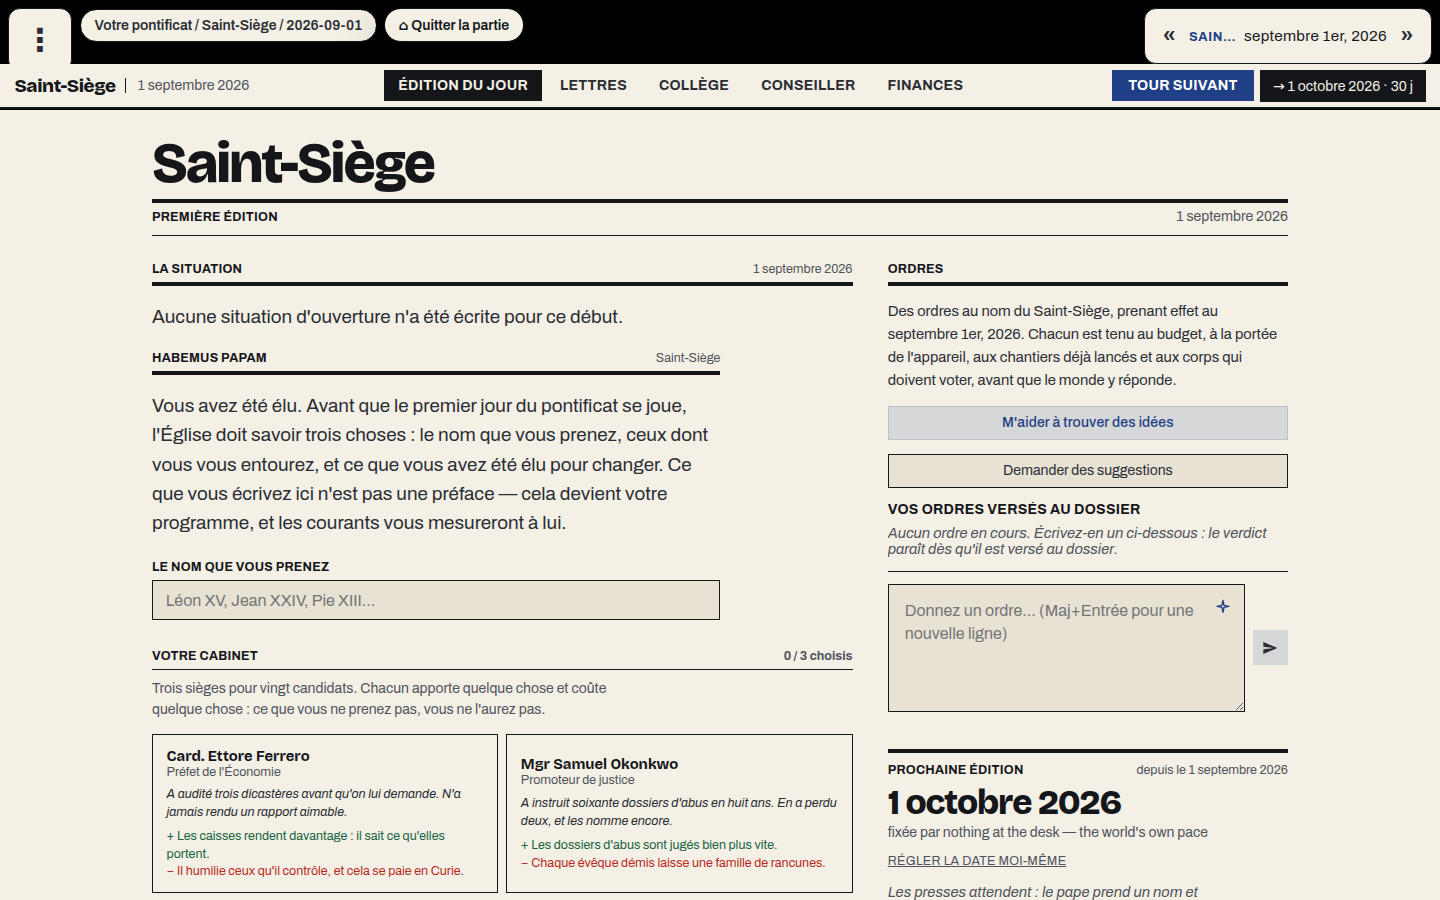
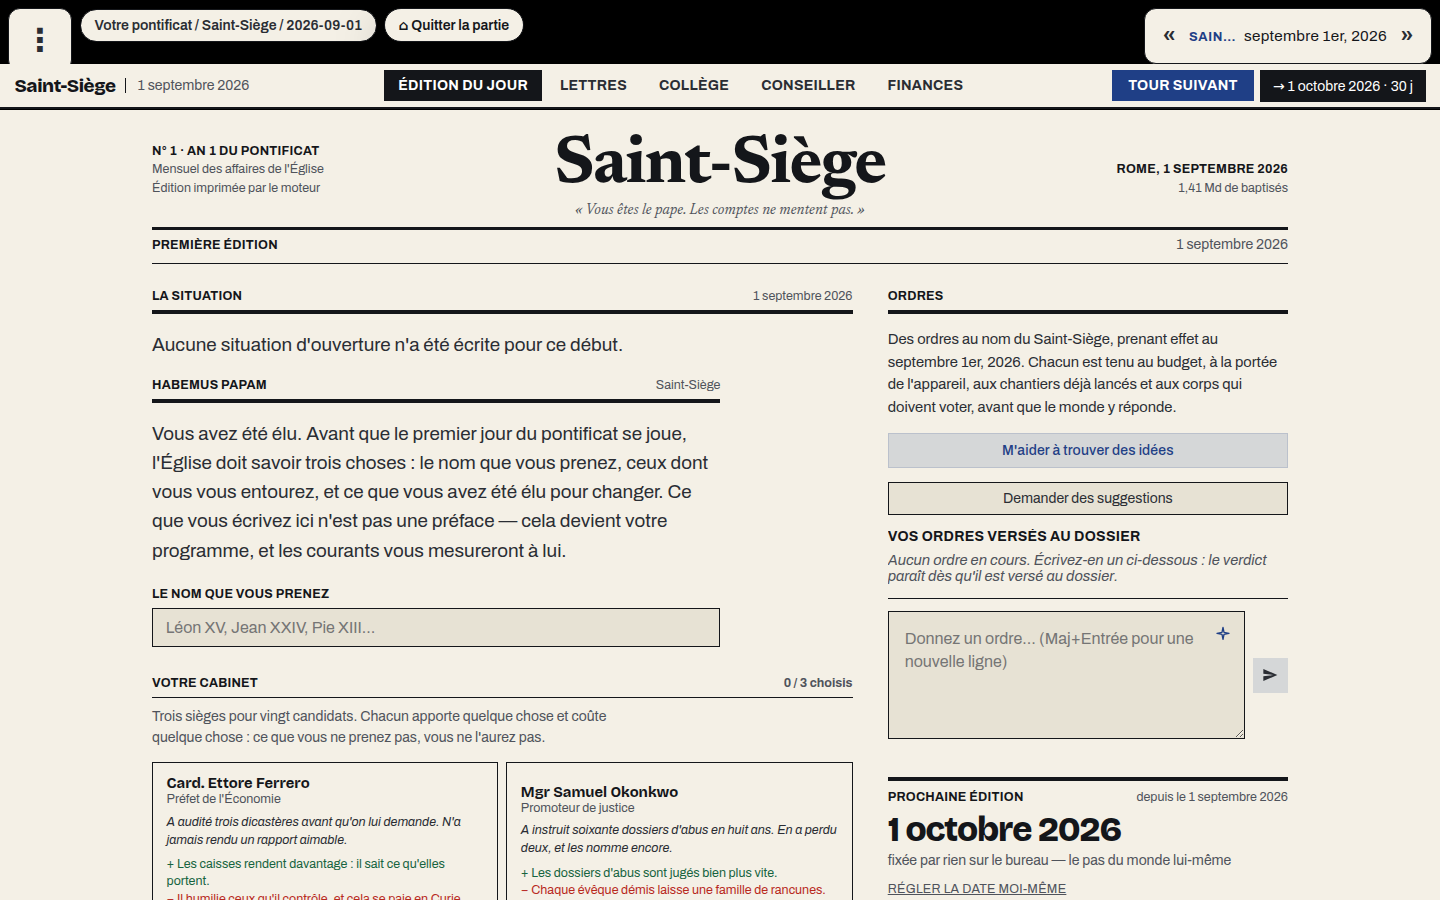
refonte : le bandeau de l'édition, d'après la maquette
Un journal se reconnaît à son bandeau avant qu'on l'ait lu. L'ancien n'avait
qu'un titre, aligné à gauche, en grotesque — celui d'une application, pas d'une
feuille imprimée.

Le bandeau de la maquette tient en trois colonnes : l'état civil du journal à
gauche (le numéro, l'an du pontificat, sa périodicité, qui l'imprime), son nom
au centre en romain et en grand, l'état civil du pontificat à droite (Rome et
la date, le pape et le jour qu'il en est, les baptisés). Dessous, la devise.

Rien de tout cela n'est inventé pour l'affichage : le pape est le chef de la
polity depuis son inauguration, l'an et le jour se comptent depuis la date de
départ de la partie, les baptisés sont le total du registre des fidèles. Un
bandeau qui afficherait des chiffres décoratifs mentirait sur la seule chose
que ce journal promet de ne pas faire.

Claude-Session: https://claude.ai/code/session_011tM9vCZEszuasjUPEwFGiz

Changed region(s): [[0.0938, 0.1556, 0.9062, 1.0], [0.5312, 0.7156, 0.5938, 0.7778]]

diff --git a/src/Game/GameUI/bulletin.jsx b/src/Game/GameUI/bulletin.jsx
@@ -17,6 +17,7 @@ import { ActionsPanel } from "./actions.jsx";
 import { writeWorldState } from "../../runtime/gameState.js";
 import { inaugurate, isInaugurated } from "../../runtime/inauguration.js";
 import { ensureRegisterBaseline, registerRows } from "../../runtime/register.js";
+import { normalizeChurch, totalFaithful } from "../../runtime/churchFaithful.js";
 import { frontRows } from "../../runtime/fronts.js";
 import { CANDIDATES, SEATS, seatCabinet } from "../../runtime/advisors.js";
 import { CONCENTRATION_CEILING, driveMovement, sourceShares } from "../../runtime/drives.js";
@@ -896,6 +897,22 @@ const Bulletin = ({ onOpenAdvisor, pressFocus = 0 }) => {
 
     const player = game?.country || "";
 
+    // L'état civil du bandeau. Tout est déjà dans la partie : le pape est le
+    // chef de la polity depuis son inauguration, l'an et le jour se comptent
+    // depuis la date de départ, les baptisés sont le registre des fidèles.
+    const pape = world?.polityOverrides?.[player]?.leader || world?.countryStats?.[player]?.leader || "";
+    const depuis = game?.startDate ? dayjs(game.startDate) : null;
+    const aujourdhui = game?.gameDate ? dayjs(game.gameDate) : null;
+    const jourDuPontificat = depuis && aujourdhui && depuis.isValid() && aujourdhui.isValid()
+        ? aujourdhui.diff(depuis, "day") + 1
+        : 0;
+    const anDuPontificat = jourDuPontificat > 0 ? Math.floor((jourDuPontificat - 1) / 365) + 1 : 1;
+    const baptises = useMemo(() => {
+        const c = normalizeChurch(world?.church);
+        const total = c ? totalFaithful(c.faithful) : 0;
+        return total > 0 ? `${(total / 1e9).toFixed(2).replace(".", ",")} Md` : "";
+    }, [world?.church]);
+
     // The edition: what THIS turn printed, and the archive beneath it.
     //
     // Field report: the page sorted every event the game had ever produced and
@@ -992,21 +1009,49 @@ const Bulletin = ({ onOpenAdvisor, pressFocus = 0 }) => {
         >
         <div style={{ margin: "0 auto", maxWidth: "74rem", padding: "1.6rem 1.5rem 3rem" }}>
 
-        {/* The masthead. The name of the sheet, then the dateline rule. */}
-        <header style={{ borderBottom: "4px solid var(--oh-text-strong)", paddingBottom: "0.5rem" }}>
+        {/* Le bandeau, d'après la maquette de la session de design : le nom du
+            journal au centre, son état civil à gauche, celui du pontificat à
+            droite. Un journal se reconnaît à son bandeau avant qu'on l'ait lu ;
+            l'ancien n'avait qu'un titre et n'en était pas un. */}
+        <header style={{ borderBottom: "3px solid var(--oh-text-strong)", paddingBottom: "0.55rem" }}>
+        <div style={{ alignItems: "end", display: "grid", gap: "1rem", gridTemplateColumns: "1fr auto 1fr" }}>
+        <div className="oh-masthead-flank" style={{ color: "var(--oh-text-dim)", fontSize: "var(--oh-t-2xs)", lineHeight: 1.5 }}>
+        <div className="oh-label" style={{ color: "var(--oh-text-strong)" }}>
+        N° {game?.round || 1} · An {anDuPontificat} du pontificat
+        </div>
+        <div>Mensuel des affaires de l&apos;Église</div>
+        <div>Édition imprimée par le moteur</div>
+        </div>
+
         <h1
         style={{
             color: "var(--oh-text-strong)",
-            fontFamily: "var(--oh-font-display)",
-            fontSize: "clamp(2.2rem, 5vw, 3.6rem)",
-            fontWeight: 800,
-            letterSpacing: "-0.035em",
-            lineHeight: 0.95,
+            fontFamily: "var(--oh-font-serif)",
+            fontSize: "clamp(2.4rem, 6vw, 4.2rem)",
+            fontWeight: 700,
+            letterSpacing: "-0.025em",
+            lineHeight: 0.92,
             margin: 0,
+            textAlign: "center",
+            whiteSpace: "nowrap",
         }}
         >
         {player || "Bulletin"}
         </h1>
+
+        <div className="oh-masthead-flank" style={{ color: "var(--oh-text-dim)", fontSize: "var(--oh-t-2xs)", lineHeight: 1.5, textAlign: "right" }}>
+        <div className="oh-label" style={{ color: "var(--oh-text-strong)" }}>
+        Rome, {fmtDate(game?.gameDate)}
+        </div>
+        {pape && <div>{pape}{jourDuPontificat ? ` · ${jourDuPontificat}ᵉ jour` : ""}</div>}
+        {baptises && <div>{baptises} de baptisés</div>}
+        </div>
+        </div>
+
+        {/* La devise : ce que le journal promet, sous son nom. */}
+        <div style={{ color: "var(--oh-text-dim)", fontFamily: "var(--oh-font-serif)", fontSize: "var(--oh-t-sm)", fontStyle: "italic", marginTop: "0.35rem", textAlign: "center" }}>
+        « Vous êtes le pape. Les comptes ne mentent pas. »
+        </div>
         </header>
 
         {/* Printed above everything, because nothing below it is real. */}

diff --git a/design/rendu/bureau/INDEX.md b/design/rendu/bureau/INDEX.md
@@ -1,6 +1,6 @@
 # Rendu réel — bureau (1440×900)
 
-Capturé le 2026-09-11 06:49 · commit 18e5b35 · source http://localhost:4173
+Capturé le 2026-09-11 06:54 · commit 1568155 · source http://localhost:4173
 
 Ces images sont le rendu réel du jeu dans un navigateur, pas une maquette.
 Une session sans navigateur (Claude Design) doit les lire avant de juger le graphisme.
@@ -12,14 +12,14 @@ Une session sans navigateur (Claude Design) doit les lire avant de juger le grap
 - `03-accueil.jpg` — capturé, 246 Ko
 - `04-bibliotheque-parties.jpg` — capturé, 89 Ko
 - `05-bibliotheque-scenarios.jpg` — capturé, 78 Ko
-- `06-habemus-papam.png` — capturé, 214 Ko
-- `07-edition-du-jour.png` — capturé, 123 Ko
+- `06-habemus-papam.png` — capturé, 225 Ko
+- `07-edition-du-jour.png` — capturé, 139 Ko
 - `08-lettres.png` — capturé, 98 Ko
 - `09-college.png` — capturé, 386 Ko
 - `10-conseiller.png` — capturé, 53 Ko
 - `11-finances.png` — capturé, 192 Ko
 
-Total du lot : 1981 Ko.
+Total du lot : 2009 Ko.
 
 ## Polices
 
@@ -34,6 +34,6 @@ Toutes les polices annoncées par les tokens sont réellement dessinées ici.
 ## Anomalies relevées pendant la capture
 
 - réseau : www.googletagmanager.com
-- réseau : fonts.googleapis.com
 - réseau : open-historia-registry.nichojkrol.workers.dev
+- réseau : fonts.googleapis.com
 
